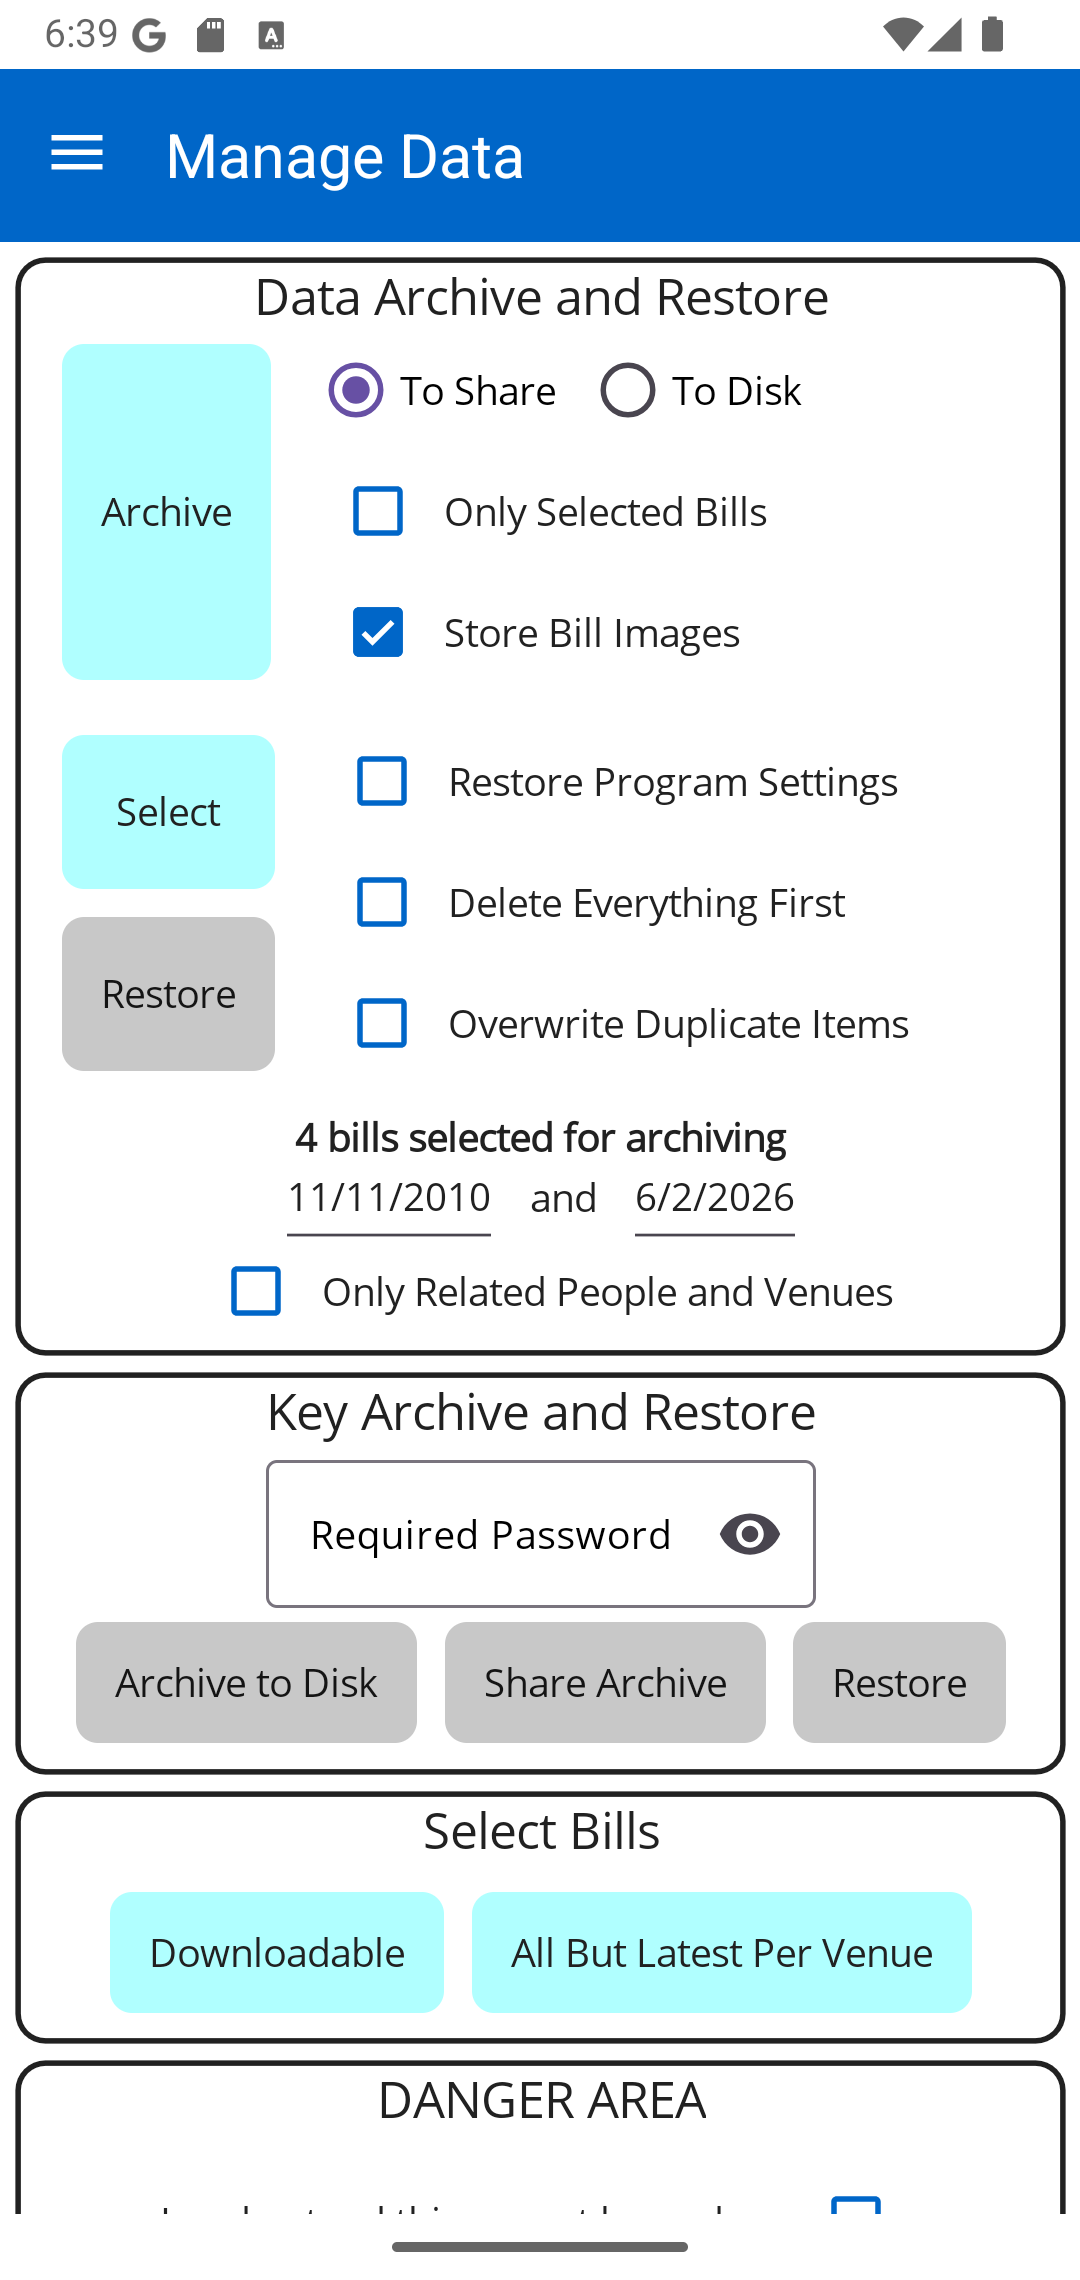
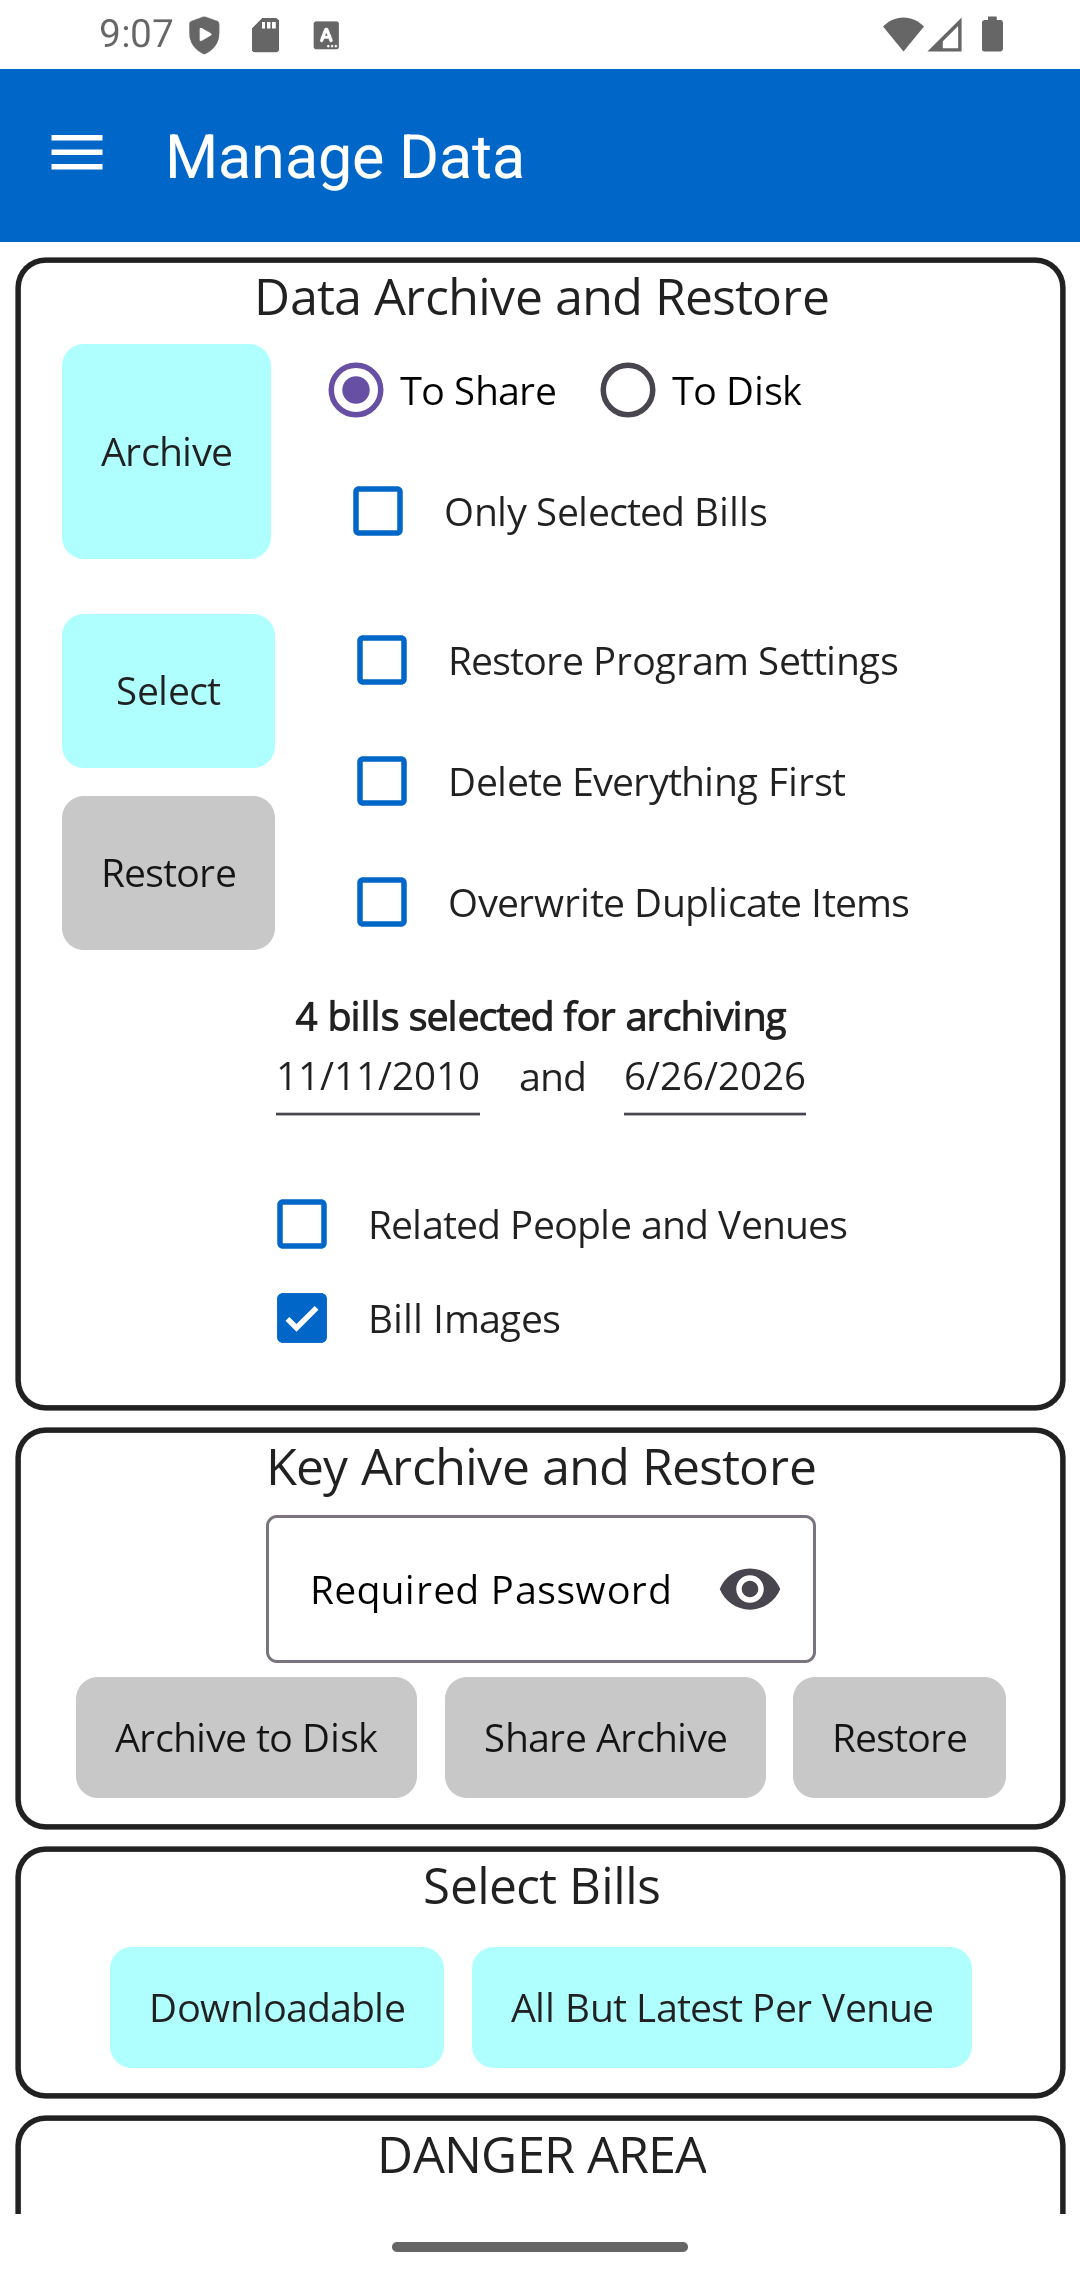
Improve Archive/Restore
It is now possible to control both archive and restore of bill images independently (previously the control only applied to archiving, restore always restored images for selected bills if there were any).

diff --git a/DivisiBill/Views/DataManagementPage.xaml b/DivisiBill/Views/DataManagementPage.xaml
@@ -49,10 +49,6 @@
                                 <CheckBox IsChecked="{Binding OnlySelectedMeals}" />
                                 <Label Text="Only Selected Bills" VerticalOptions="Center" />
                             </HorizontalStackLayout>
-                            <HorizontalStackLayout Grid.Row="2" Grid.Column="1">
-                                <CheckBox IsChecked="{Binding SaveImages}" />
-                                <Label Text="Store Bill Images" VerticalOptions="Center" />
-                            </HorizontalStackLayout>
                         </Grid>
                         <!--#endregion-->
                         <!--#region Select and Restore -->
@@ -109,11 +105,17 @@
                                 MinimumDate="{Binding StartDate}" />
                         </HorizontalStackLayout>
                         <!--#endregion-->
-                        <!--#region 'Only Related' Option-->
-                        <HorizontalStackLayout HorizontalOptions="Center" Margin="0,-20,0,0">
-                            <CheckBox IsChecked="{Binding OnlyRelated}" Margin="0,0,0,-10" />
-                            <Label Text="Only Related People and Venues" VerticalOptions="Center" LineBreakMode="WordWrap" Margin="0,0,0,-10"/>
-                        </HorizontalStackLayout>
+                        <!--#region Options For Both Archive and Restore  -->
+                        <Grid HorizontalOptions="Center" RowDefinitions="auto, auto" ColumnDefinitions="auto, auto">
+                            <!--#region 'Only Related' Option-->
+                            <CheckBox Grid.Row="0" Grid.Column="0" IsChecked="{Binding OnlyRelated}" Margin="0,0,0,-10" />
+                            <Label Grid.Row="0" Grid.Column="1" Text="Related People and Venues" VerticalOptions="Center" LineBreakMode="WordWrap" Margin="0,0,0,-10"/>
+                            <!--#endregion-->
+                            <!--#region Archive/Restore Images-->
+                            <CheckBox Grid.Row="1" Grid.Column="0" IsChecked="{Binding UseImages}" />
+                            <Label Grid.Row="1" Grid.Column="1" Text="Bill Images" VerticalOptions="Center" />
+                            <!--#endregion-->
+                        </Grid>
                         <!--#endregion-->
                     </VerticalStackLayout>
                 </Border>

diff --git a/DivisiBill/Release Notes.html b/DivisiBill/Release Notes.html
@@ -14,9 +14,10 @@
 <h2 id="list-saved-bills-by-name">List Saved Bills by Name</h2>
 <p>This was showing a list of bills by default, once again it shows a list of venues with bills clustered together below each venue. You can expand the list of bills for a venue and if there are too many to show inline a button to show them on another page appears.</p>
 <h2 id="improve-archive-restore">Improve Archive Restore</h2>
-<p>The restore operation now shows a message if any bills were not restored because they were duplicated (another bill was created in the same second). The message says how many and what the first few were.</p>
+<p>The restore operation now shows a message if any bills were not restored because they were duplicated (another bill that was created in the same second is present). The message says how many and what the first few were.</p>
 <p>Archive selection on Android  now identifies more files as archives.</p>
 <p>The meaning of the &quot;Only Related People and Venues&quot; option was reversed during a restore. This has been corrected and it now means that only people and venues that are referenced by the selected bills will be archived or restored.</p>
+<p>It is now possible to control both archive and restore of bill images independently (previously the control only applied to archiving, restore always restored images for selected bills if there were any).</p>
 <h2 id="improve-camera-page-navigation">Improve Camera Page Navigation</h2>
 <p>After switching to the Camera page from most other pages it was impossible to just use a 'back' action to exit to the Image page. Doing so would just pop back to the camera page immediately. This has been corrected. Simply exiting the Camera page in these circumstances will bring up the image page with the image unchanged.</p>
 <h2 id="allow-camera-switching">Allow Camera Switching</h2>

diff --git a/web/divisibill/datamanagementglossary.html b/web/divisibill/datamanagementglossary.html
@@ -31,7 +31,11 @@
 <h2 id="overwrite-option">Overwrite Option</h2>
 <p>Select &quot;Overwrite Duplicate Items&quot; to overwrite items of the same name that already exist when a restore is performed.</p>
 <h2 id="use-bills-between">Use Bills Between</h2>
-<p>The Archive and Restore buttons operate only on bills in the specified date range (which by default is every bill to date).</p>
+<p>The Archive and Restore buttons operate only on bills in the specified date range. Once an archive is selected this defaults to every bill in it. If no archive is selected the default is from the date of the last bill used in the previous archive command to today's date. If you change the range, the number of bills will be updated to reflect the new range.</p>
+<h2 id="related">Related</h2>
+<p>The archive and restore buttons operate only on venues or people that are used on the selected bills.</p>
+<h2 id="use-images">Use Images</h2>
+<p>Set this option to have the archive and restore buttons operate on any images of the selected bills. By clearing this option the archive and restore buttons will ignore images, which will make the archive file smaller and faster to create and restore. By setting this option to &quot;Yes&quot; the archive and restore buttons will include images and if you also set the delete option, all existing images will be removed before a restore is initiated.</p>
 <h2 id="key-password">Key Password</h2>
 <p>The password to be used to archive or restore keys. Until this is set the &quot;Archive Keys&quot; and &quot;Restore Keys&quot; buttons are disabled.</p>
 <h2 id="archive-keys">Archive Keys</h2>

diff --git a/DivisiBill/Services/Archive.cs b/DivisiBill/Services/Archive.cs
@@ -713,7 +713,7 @@ public class Archive
     /// Restores data and bill images from a zip archive or just data from a simple XML archive.
     /// </summary>
     /// <remarks>User settings from the archive are ignored. Uses <see cref="RestoreXmlAsync"/> to restore data and If the archive contains images, any
-    /// images associated with restored meals are extracted. If an error occurs during restore or image extraction, a notification is
+    /// images associated with restored meals are extracted based on the <paramref name="useImages"/> parameter. If an error occurs during restore or image extraction, a notification is
     /// returned and the operation may be incomplete.</remarks>
     /// <param name="deleteBeforeRestore">Indicates whether existing data and images should be deleted before restoring from the archive. Set to <see
     /// langword="true"/> to remove all current items prior to restore; otherwise, restored items will be merged.</param>
@@ -721,18 +721,23 @@ public class Archive
     /// langword="true"/> to replace duplicates; otherwise, duplicates are skipped.</param>
     /// <param name="onlyRelated">Indicates whether only items related to the selected meals should be restored. Set to <see langword="true"/> to
     /// restore only related items; otherwise, all items in the archive are restored.</param>
-    /// 
+    /// <param name="useImages">Indicates whether images associated with restored meals should be extracted. Set to <see langword="true"/> to
+    /// extract images; otherwise, only data is restored.</param>
     ///<returns>A tuple containing a boolean indicating success or failure, and a string message with details about any failure.</returns>
     /// 
-    public async Task<(bool, string)> RestoreAnyAsync(bool deleteBeforeRestore, bool overwriteDuplicates, bool onlyRelated)
+    public async Task<(bool, string)> RestoreAnyAsync(bool deleteBeforeRestore, bool overwriteDuplicates, bool onlyRelated, bool useImages)
     {
         try
         {
             // Restore the data items
             await RestoreXmlAsync(deleteBeforeRestore, overwriteDuplicates, onlyRelated);
 
+            // Give the user the option to delete all the images even if there are none to restore
+            if (useImages && deleteBeforeRestore)
+                Meal.PermanentlyDeleteAllLocalImages();
+
             // If the archive was a zip and contains images, selectively extract images belonging to meals being restored
-            if (IsZipped && !string.IsNullOrWhiteSpace(ContainerFullName) && File.Exists(ContainerFullName))
+            if (useImages && IsZipped && !string.IsNullOrWhiteSpace(ContainerFullName) && File.Exists(ContainerFullName))
             {
                 try
                 {

diff --git a/DivisiBill/ViewModels/DataManagementViewModel.cs b/DivisiBill/ViewModels/DataManagementViewModel.cs
@@ -177,7 +177,7 @@ internal partial class DataManagementViewModel : ObservableObject
             await Utilities.DisplayAlertAsync("Archiving Error", "No bills meet the archive criteria");
             return;
         }
-        string? zipFullName = archive.CreateZipArchive(SaveImages);
+        string? zipFullName = archive.CreateZipArchive(UseImages);
         if (string.IsNullOrWhiteSpace(zipFullName) || !File.Exists(zipFullName))
         {
             await Utilities.ShowAppSnackBarAsync("Archive Zip File Creation Failed");
@@ -361,7 +361,7 @@ internal partial class DataManagementViewModel : ObservableObject
             }
 
             // Restore the data items
-            (bool restoreWorked, string restoreFailureText) = await archive.RestoreAnyAsync(DeleteBeforeRestore, OverwriteDuplicates, OnlyRelated);
+            (bool restoreWorked, string restoreFailureText) = await archive.RestoreAnyAsync(DeleteBeforeRestore, OverwriteDuplicates, OnlyRelated, UseImages);
 
             if (restoreWorked)
             {
@@ -406,7 +406,7 @@ internal partial class DataManagementViewModel : ObservableObject
     /// Indicates whether to save images during archiving operations. Defaults to false.
     /// </summary>
     [ObservableProperty]
-    public partial bool SaveImages { get; set; } = true;
+    public partial bool UseImages { get; set; } = true;
 
     /// <summary>
     /// Indicates whether all meals or only selected meals are candidates for archiving. Defaults to false.

diff --git a/DivisiBill/Models/MealSummary.cs b/DivisiBill/Models/MealSummary.cs
@@ -331,6 +331,32 @@ public partial class MealSummary : ObservableObjectPlus, IComparable<MealSummary
     }
 
     /// <summary>
+    /// Permanently deletes all local meal images from storage, removing them without the possibility of recovery.
+    /// </summary>
+    /// <remarks>This method does not delete any associated meal records, use <see cref="PermanentlyDeleteAllLocalMeals"/>
+    /// for that. Use this method when a complete removal of local meal images is required, such as during
+    /// an archive restore operation.</remarks>
+    public static void PermanentlyDeleteAllLocalImages()
+    {
+        if (Directory.Exists(Meal.ImageFolderPath)) // It may not exist if this is a new install
+        {
+            var imageFiles = Directory.EnumerateFiles(Meal.ImageFolderPath, "*.jpg").ToList();
+
+            foreach (string imageFilePath in imageFiles)
+            {
+                try
+                {
+                    File.Delete(imageFilePath);
+                }
+                catch (Exception ex)
+                {
+                    ex.ReportCrash();
+                }
+            }
+        }
+    }
+
+    /// <summary>
     /// Deletes data for a meal from local and/or remote storage asynchronously, based on the specified options.
     /// </summary>
     /// <remarks>If both <paramref name="doLocal"/> and <paramref name="doRemote"/> are <see

diff --git a/DivisiBill/ViewModels/RestoreViewModel.cs b/DivisiBill/ViewModels/RestoreViewModel.cs
@@ -64,7 +64,7 @@ public partial class RestoreViewModel : ObservableObject
             // We never apply user settings from the archive - use the App Data Management Page Restore option for that.
 
             // Restore the data items
-            (bool restoreWorked, string restoreFailureText) = await SelectedArchive.RestoreAnyAsync(DeleteBeforeRestore, OverwriteDuplicates, OnlyRelated);
+            (bool restoreWorked, string restoreFailureText) = await SelectedArchive.RestoreAnyAsync(DeleteBeforeRestore, OverwriteDuplicates, OnlyRelated, UseImages);
 
             if (restoreWorked)
             {
@@ -114,6 +114,13 @@ public partial class RestoreViewModel : ObservableObject
     /// </summary>
     [ObservableProperty]
     public partial bool OnlyRelated { get; set; } = false;
+
+    /// <summary>
+    /// Indicates whether only items referred to by meals being archived or restored should themselves be archived or restored.
+    /// Initialized to false by default.
+    /// </summary>
+    [ObservableProperty]
+    public partial bool UseImages { get; set; } = true;
 
     /// <summary>
     /// Indicates whether to delete all items before commencing a restore operation. Defaults to false.

diff --git a/DivisiBill/Release Notes.md b/DivisiBill/Release Notes.md
@@ -10,11 +10,13 @@ This was showing a list of bills by default, once again it shows a list of venue
 
 ## Improve Archive Restore
 
-The restore operation now shows a message if any bills were not restored because they were duplicated (another bill was created in the same second). The message says how many and what the first few were.
+The restore operation now shows a message if any bills were not restored because they were duplicated (another bill that was created in the same second is present). The message says how many and what the first few were.
 
 Archive selection on Android  now identifies more files as archives.
 
-The meaning of the "Only Related People and Venues" option was reversed during a restore. This has been corrected and it now means that only people and venues that are referenced by the selected bills will be archived or restored. 
+The meaning of the "Only Related People and Venues" option was reversed during a restore. This has been corrected and it now means that only people and venues that are referenced by the selected bills will be archived or restored.
+
+It is now possible to control both archive and restore of bill images independently (previously the control only applied to archiving, restore always restored images for selected bills if there were any).
 
 ## Improve Camera Page Navigation
 

diff --git a/web/divisibill/datamanagementglossary.md b/web/divisibill/datamanagementglossary.md
@@ -44,7 +44,15 @@ Select "Overwrite Duplicate Items" to overwrite items of the same name that alre
 
 ## Use Bills Between
 
-The Archive and Restore buttons operate only on bills in the specified date range (which by default is every bill to date).
+The Archive and Restore buttons operate only on bills in the specified date range. Once an archive is selected this defaults to every bill in it. If no archive is selected the default is from the date of the last bill used in the previous archive command to today's date. If you change the range, the number of bills will be updated to reflect the new range.
+
+## Related
+
+The archive and restore buttons operate only on venues or people that are used on the selected bills.
+
+## Use Images
+
+Set this option to have the archive and restore buttons operate on any images of the selected bills. By clearing this option the archive and restore buttons will ignore images, which will make the archive file smaller and faster to create and restore. By setting this option to "Yes" the archive and restore buttons will include images and if you also set the delete option, all existing images will be removed before a restore is initiated.
 
 ## Key Password
 
